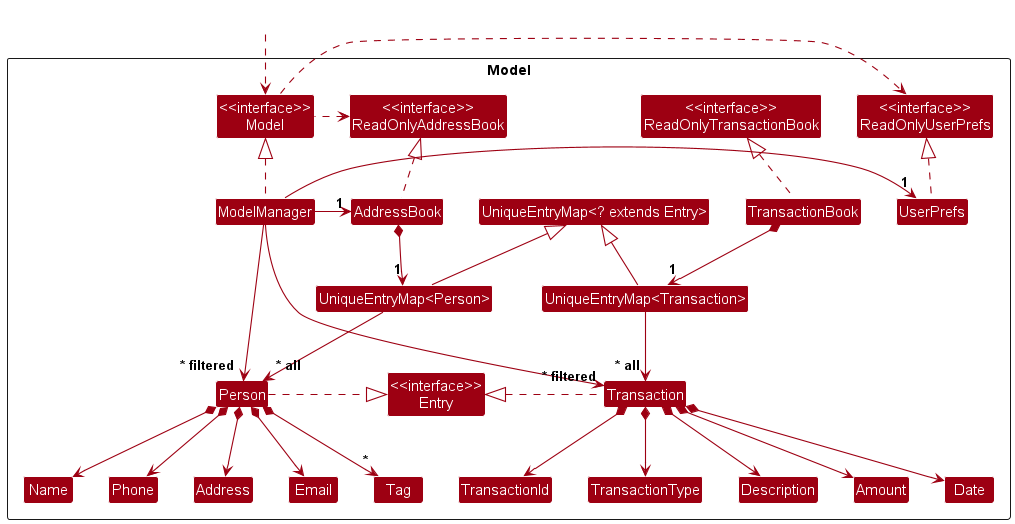
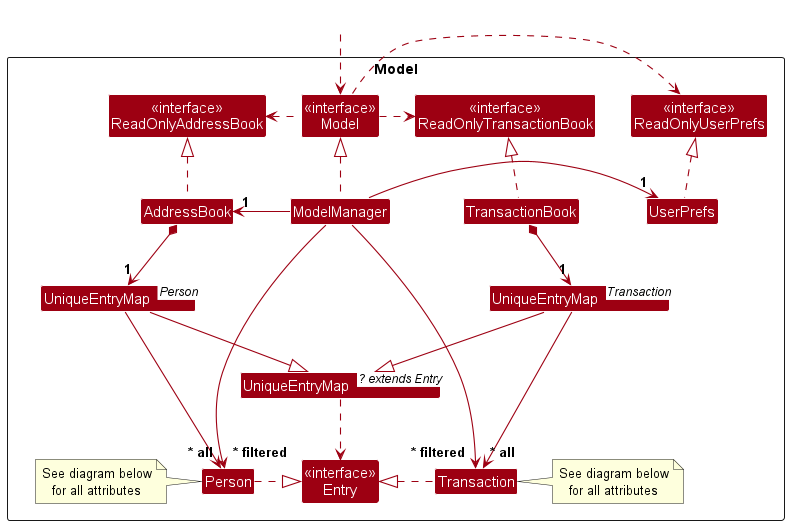
Split transaction, person attributes into separate class diagrams, use newer generic notation for class diagrams

diff --git a/docs/DeveloperGuide.md b/docs/DeveloperGuide.md
@@ -147,6 +147,8 @@ How the parsing works:
   - Integer id of person (Optional)
 - Similar to the `AddressBook`, maintains an `ObservableList<Transaction>` that can be observed by external entities, facilitating automatic updates in the UI.
 
+<img src="images/TransactionClassDiagram.png" width="450" />
+
 ### Storage component
 
 **API** : [`Storage.java`](https://github.com/AY2324S1-CS2103T-W13-3/tp/tree/master/src/main/java/transact/storage/Storage.java)
